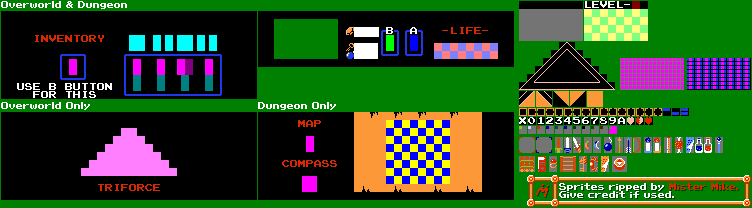
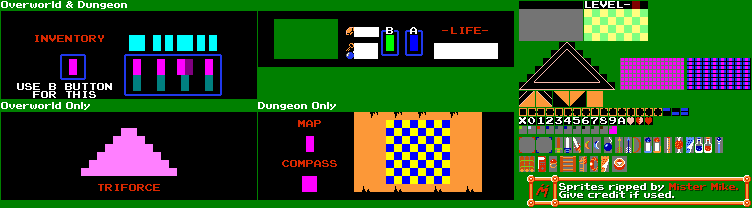
added logic for health

Changed region(s): [[0.5505, 0.2019, 0.6729, 0.2885]]

diff --git a/cse3902/PlayerClasses/PlayerInventory.cs b/cse3902/PlayerClasses/PlayerInventory.cs
@@ -23,7 +23,7 @@ namespace cse3902.PlayerClasses
 
         public PlayerInventory()
         {
-            health = lifeContainer;
+            health = 3;
             BowUnlocked = true;
             Rubies = 0;
             Keys = 0;
@@ -33,15 +33,45 @@ namespace cse3902.PlayerClasses
             Triforce = 0;
 
         }
+
+
         // Method to prepare the text to be drawn (won't actually draw anything)
         public void Draw(GameContent gameContent, SpriteBatch spriteBatch)
         {
-            // Draw the quantity of keys
-
+            // Draw the quantity of items
             spriteBatch.DrawString(gameContent.font, "Keys: " + this.Keys, new Vector2(280, 70), Color.White);
             spriteBatch.DrawString(gameContent.font, "Bombs: " + this.Bombs, new Vector2(280, 100), Color.White);
             spriteBatch.DrawString(gameContent.font, "Rubies: " + this.Rubies, new Vector2(280, 30), Color.White);
 
+            //draw the heart for the health, initial there are 3 hearts:
+            // Draw heart items based on player's health
+            Vector2 heartPosition = new Vector2(100, 100);
+            Sprite heart = new Sprite(gameContent.hud, new List<Rectangle>() {
+                        new Rectangle(645, 117, 8, 8) }
+                        , new Vector2(3.5f, 3.5f));
+
+            heart.X = 500;
+            heart.Y = 85;
+
+            for (int i = 0; i < health; i++) {
+
+                heart.X += 16;
+                heart.Draw(spriteBatch);
+            }
+            if (health < lifeContainer) {
+                Sprite fadedHeart = new Sprite(gameContent.hud, new List<Rectangle>() {
+                        new Rectangle(627, 117, 8, 8) }
+                       , new Vector2(3.5f, 3.5f));
+                fadedHeart.X = heart.X;
+                fadedHeart.Y = heart.Y;
+
+                for (int i = health; i < lifeContainer; i++)
+                {
+                    fadedHeart.X += 16;
+                    fadedHeart.Draw(spriteBatch);
+                }
+            }
+           
         }
     }
 }

diff --git a/cse3902/PlayerClasses/PlayerDamage.cs b/cse3902/PlayerClasses/PlayerDamage.cs
@@ -64,6 +64,7 @@ namespace cse3902.PlayerClasses
             /* move player if any movement key is pressed */
             
             Vector2 position = player.Position;
+         
             if (controllers.Any(c => c.isPlayerMoveLeftPressed()) == true)
             {
                 player.Facing = Direction.Left;
